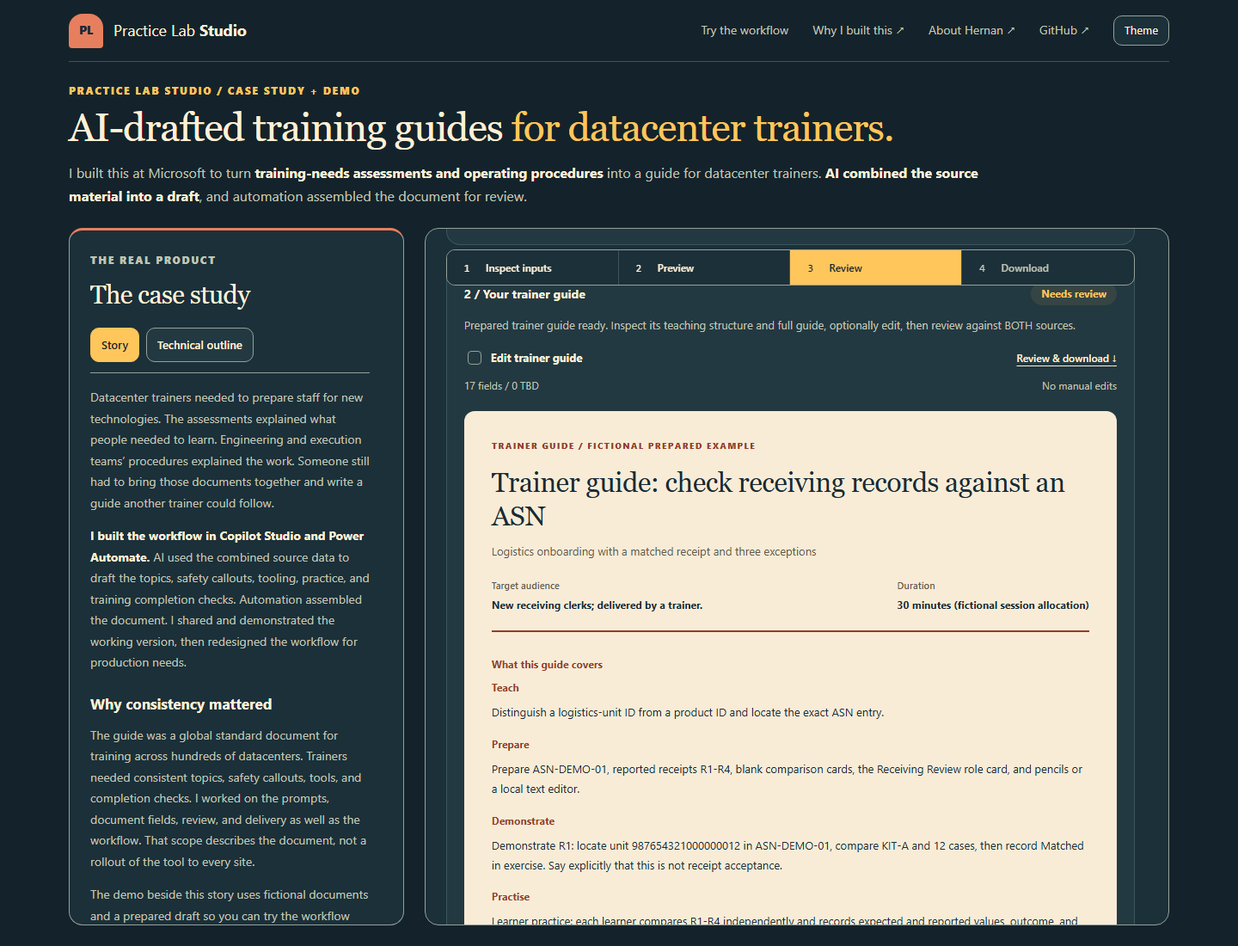
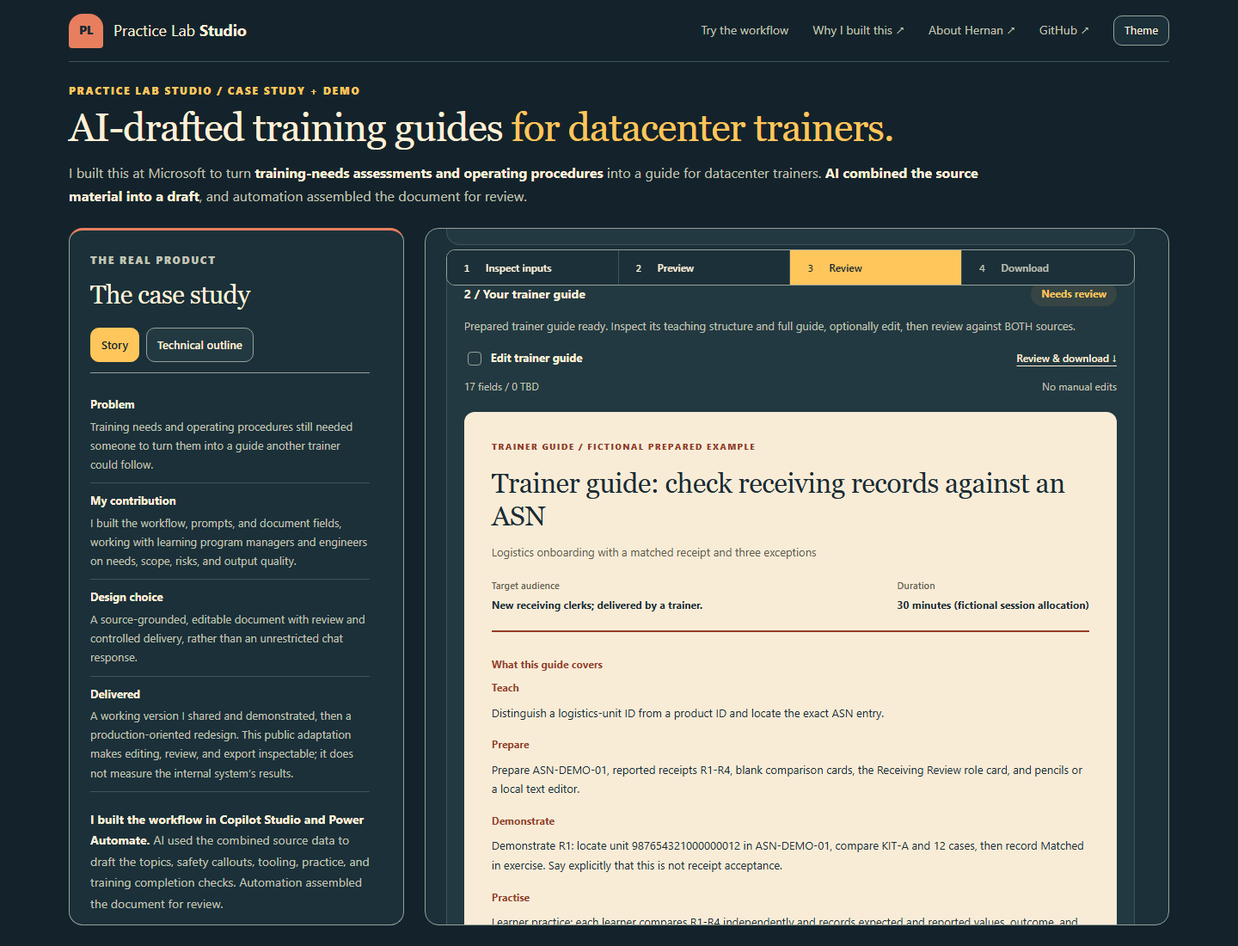
Balance portfolio product and program stories

diff --git a/index.html b/index.html
@@ -11,20 +11,20 @@
   </script>
   <meta name="viewport" content="width=device-width, initial-scale=1">
   <meta name="author" content="Hernan Acosta">
-  <meta name="description" content="Meet Hernan Acosta: a hands-on builder at Microsoft connecting AI workflows, global technical learning, and mentorship. Explore his work, story, and Practice Lab Studio.">
+  <meta name="description" content="Meet Hernan Acosta: product development, technical program delivery, and hands-on building across Microsoft, PayPal, and Amazon. Explore selected work and an interactive trainer-guide case study.">
   <meta name="referrer" content="no-referrer">
   <meta http-equiv="Content-Security-Policy" content="default-src 'none'; script-src 'unsafe-inline'; style-src 'unsafe-inline'; img-src data: blob:; connect-src 'none'; font-src 'none'; object-src 'none'; base-uri 'none'; form-action 'none'">
   <meta property="og:type" content="website">
-  <meta property="og:title" content="Hi! I'm Hernan. | AI tools, global teams &amp; a little curiosity">
-  <meta property="og:description" content="I build AI tools and help people do their next big thing. Come meet the person behind the projects, explore Practice Lab Studio, and say hello.">
+  <meta property="og:title" content="Hi! I'm Hernan. | Tools and programs people can use">
+  <meta property="og:description" content="Internal tools, AI-assisted authoring, and reusable training. Explore the problems, choices, and delivery behind my work.">
   <meta property="og:url" content="https://hernanacostaa.github.io/practice-lab-studio/">
   <meta property="og:image" content="https://hernanacostaa.github.io/practice-lab-studio/social-preview.png">
   <meta property="og:image:width" content="1200">
   <meta property="og:image:height" content="630">
-  <meta property="og:image:alt" content="Hernan Acosta: AI workflows, global learning, and mentorship.">
+  <meta property="og:image:alt" content="Hernan Acosta: product development, technical program delivery, and hands-on building.">
   <meta name="twitter:card" content="summary_large_image">
   <link rel="canonical" href="https://hernanacostaa.github.io/practice-lab-studio/">
-  <title>Hernan Acosta | Product Building, AI &amp; Global Learning</title>
+  <title>Hernan Acosta | Product Development &amp; Technical Program Delivery</title>
   <style>/* INLINE_STYLES */</style>
   <script type="application/ld+json">
     {
@@ -48,7 +48,7 @@
       <a class="brand" href="#top" aria-label="Hernan Acosta, back to top"><span class="monogram" aria-hidden="true">HA</span>Hernan Acosta</a>
       <div class="header-actions">
         <nav class="main-nav" aria-label="Main navigation">
-          <a href="#work">Spotlight Product</a>
+          <a href="#work">Explore my work</a>
           <a href="#about">Meet Hernan</a>
           <a href="#community">Beyond the desk</a>
           <a class="nav-contact" href="#contact">Say hello <span aria-hidden="true">&#8599;</span></a>
@@ -67,11 +67,12 @@
         <div>
           <p class="hello">Hi! Nice to meet you.</p>
           <h1 id="intro-title">I&rsquo;m <em>Hernan!</em> <span class="hello-smile" aria-label="big smile">:D</span></h1>
-          <p class="hero-hook">I build AI tools.<br>And help people do their next big thing.</p>
-          <p class="intro-copy">At Microsoft, I turn &ldquo;there has to be a better way&rdquo; into working tools, help global teams tackle new technology, and share what I learn. A good problem and good people? Count me in.</p>
+          <p class="focus-line">Product development &middot; Technical program delivery</p>
+          <p class="hero-hook">I turn complex workflows into tools and programs people can use.</p>
+          <p class="intro-copy">My work spans AI-assisted content development and global learning at Microsoft, merchant integrations at PayPal, and an internal tool I built and rolled out at Amazon. I work with users and technical partners to find the friction, make practical choices, and improve how work gets done.</p>
           <div class="intro-actions">
-            <a class="button primary" href="#work">Spotlight Product <span aria-hidden="true">&#8599;</span></a>
-            <a class="text-link arrow-link" href="#about"><span>The human behind the projects</span><span aria-hidden="true">&#8594;</span></a>
+            <a class="button primary" href="#work">Explore my work <span aria-hidden="true">&#8599;</span></a>
+            <a class="text-link arrow-link" href="#about"><span>Meet Hernan</span><span aria-hidden="true">&#8594;</span></a>
           </div>
         </div>
         <figure class="portrait">
@@ -101,15 +102,75 @@
 
       <section class="section" id="work" aria-labelledby="work-title">
         <div class="section-head">
-          <div><p class="eyebrow">Spotlight Product</p><h2 id="work-title">Meet Practice Lab Studio.</h2></div>
+          <div><p class="eyebrow">Selected work</p><h2 id="work-title">Build it. Get it into people&rsquo;s hands.</h2></div>
+          <p>Three kinds of work: a tool shaped by frontline feedback, a better authoring workflow, and training other teams could deliver.</p>
+        </div>
+        <section class="delivery-scope" aria-labelledby="delivery-scope-title">
+          <h3 id="delivery-scope-title">Selected results and delivery scope</h3>
+          <ul>
+            <li><strong>From pilot to multi-site rollout</strong><span>Amazon internal ticketing tool; frontline feedback informed major versions.</span></li>
+            <li><strong>From source documents to an editable guide</strong><span>Microsoft AI-assisted authoring; working version built, shared, and demonstrated.</span></li>
+            <li><strong>Delivery other trainers could carry forward</strong><span>Microsoft reusable materials and train-the-trainer programs for regional delivery.</span></li>
+          </ul>
+        </section>
+        <div class="work-grid selected-cases">
+          <article class="work-card" id="amazon" aria-labelledby="amazon-title">
+            <span class="small-label">Amazon / Internal tool &amp; rollout</span>
+            <h3 id="amazon-title">Less friction at ticket submission.</h3>
+            <p>I built an internal ticketing tool and expanded it from a pilot to multiple buildings. Frontline feedback informed three major versions, so the work wasn&rsquo;t finished at the first release.</p>
+            <details>
+              <summary>Read the tool and rollout story</summary>
+              <div class="work-detail">
+                <p><strong>The problem.</strong> Ticket submission was more time-consuming than it needed to be. I focused on that everyday workflow rather than creating a separate destination for its own sake.</p>
+                <p><strong>My contribution.</strong> I personally built the tool, rolled it out across sites, and used frontline feedback to inform major revisions.</p>
+                <p><strong>The choice.</strong> Start with a pilot, then keep revising as the tool reached more buildings. The supported account is feedback-led iteration; it doesn&rsquo;t establish a particular feature change or experiment.</p>
+                <p><strong>Delivered.</strong> A working internal tool and a multi-site rollout. This account describes historical use, not current usage or a claim of financial savings.</p>
+                <p><strong>Technical detail.</strong> JavaScript and HTML/CSS, hosted with Amazon S3 and CloudFront. No internal interface or source code is reproduced here.</p>
+              </div>
+            </details>
+          </article>
+          <article class="work-card" id="ai-authoring" aria-labelledby="ai-authoring-title">
+            <span class="small-label">Microsoft / AI-assisted authoring</span>
+            <h3 id="ai-authoring-title">A draft a trainer could actually use.</h3>
+            <p>Learning requirements and operating procedures still needed to become a trainer guide. I built the AI-assisted workflow, then worked on the structure, review, and editable document handoff.</p>
+            <details>
+              <summary>Read the authoring story</summary>
+              <div class="work-detail">
+                <p><strong>The problem.</strong> Having the source material wasn&rsquo;t the same as having a guide another trainer could follow.</p>
+                <p><strong>My contribution.</strong> I built the Copilot Studio and Power Automate workflow, designed prompts and document fields, and partnered with learning program managers and engineers on needs, scope, risks, and output quality.</p>
+                <p><strong>The choice.</strong> Keep the draft grounded in its sources, structured, and editable rather than treating a chat response as the finished document.</p>
+                <p><strong>Delivered.</strong> A working version I shared and demonstrated, followed by a production-oriented redesign. The public demo makes editing, review, and export inspectable; it isn&rsquo;t evidence of the original implementation&rsquo;s exact controls or measured results.</p>
+                <a href="lab.html" data-site-link>Open the concise case study + demo <span aria-hidden="true">&#8594;</span></a>
+                <a href="case-study.html#decisions" data-site-link>Explore the product decisions <span aria-hidden="true">&#8594;</span></a>
+              </div>
+            </details>
+          </article>
+          <article class="work-card" id="training-delivery" aria-labelledby="training-delivery-title">
+            <span class="small-label">Microsoft / Global curriculum leadership</span>
+            <h3 id="training-delivery-title">Training that didn&rsquo;t need me in every room.</h3>
+            <p>I coordinated training across sites and prepared secondary trainers with reusable materials and train-the-trainer programs. Local delivery depended on more than a good slide deck.</p>
+            <details>
+              <summary>Read the program delivery story</summary>
+              <div class="work-detail">
+                <p><strong>The problem.</strong> New technology brought learning needs across regions, with equipment, scheduling, and operational constraints to work around.</p>
+                <p><strong>My contribution.</strong> I coordinated delivery, worked alongside engineers and program managers, and created hands-on guides and train-the-trainer materials to support regional trainers.</p>
+                <p><strong>The delivery approach.</strong> Reusable guidance and secondary trainers gave other teams a way to carry the training forward locally. That describes the program design, not a measured improvement in staff readiness.</p>
+                <p><strong>Scope and limits.</strong> Multi-site training and trainer preparation are delivery scope. They don&rsquo;t establish faster onboarding, productivity gains, or financial impact.</p>
+                <p><strong>Mobility and new technology.</strong> A global rapid-response stretch assignment alongside my formal training role also brought field experience and operational constraints into the work.</p>
+              </div>
+            </details>
+          </article>
+        </div>
+        <div class="section-head project-head">
+          <div><p class="eyebrow">Make the authoring workflow tangible</p><h2>Meet Practice Lab Studio.</h2></div>
         </div>
         <article class="feature" aria-labelledby="project-title">
           <div class="feature-main">
             <div class="feature-copy">
-              <div class="feature-kicker"><span>My &ldquo;what if?&rdquo; project</span><span>AI-assisted authoring</span></div>
+              <div class="feature-kicker"><span>Microsoft project / public adaptation</span><span>AI-assisted authoring</span></div>
               <h3 id="project-title">Two inputs.<br>One trainer guide.</h3>
               <p class="feature-description">I built a tool that uses AI to turn training-needs assessments and operating procedures into a guide for datacenter trainers.</p>
-              <p class="feature-role">The result was a draft covering the topics, safety callouts, tools, practice, and completion checks. Automation assembled the document for an author to review and edit.</p>
+              <p class="feature-role">I focused on a usable draft and a reliable handoff: topics, safety callouts, tools, practice, and completion checks in an editable document. The story explains the work; the prepared public examples let you inspect the output.</p>
               <div class="feature-actions">
                 <a class="button primary" href="lab.html" data-site-link>See the case study + demo <span aria-hidden="true">&#8594;</span></a>
                 <a class="text-link arrow-link" href="lab.html#demo" data-site-link><span>Try the demo</span><span aria-hidden="true">&#8599;</span></a>
@@ -127,49 +188,18 @@
 
       <section class="section work-section" id="microsoft" aria-labelledby="microsoft-title">
         <div class="section-head">
-          <div><p class="eyebrow">More from my Microsoft chapter</p><h2 id="microsoft-title">Not all my work comes<br>with a download button.</h2></div>
-          <p>Sometimes I&rsquo;m building an agent. Sometimes I&rsquo;m helping another team teach the tricky stuff. Here are a few of those stories.</p>
+          <div><p class="eyebrow">Customer understanding &amp; field influence</p><h2 id="microsoft-title">The useful part starts with listening.</h2></div>
         </div>
-        <div class="work-grid">
+        <div class="work-grid supporting-cases">
           <article class="work-card">
-            <span class="small-label">Global curriculum leadership</span>
-            <h3>Great training shouldn&rsquo;t need me in every room.</h3>
-            <p>As a lead in global curriculum work, I turn hands-on engineering knowledge into guides and train-the-trainer programs. The best handoff is another team feeling ready to teach it themselves.</p>
-            <details>
-              <summary>Here&rsquo;s what I actually did</summary>
-              <div class="work-detail">
-                <p><strong>The challenge.</strong> Knowing how new technology works is different from helping another team learn, practice, and teach it.</p>
-                <p><strong>My contribution.</strong> I worked alongside engineers and program managers, authored hands-on guides, designed one- and two-week learning programs, and helped trainers from different regions prepare to deliver locally. Field questions fed back into the guidance.</p>
-                <p><strong>The lesson.</strong> A scalable program needs more than good content. It needs clear practice, a way to check readiness, and someone equipped to own the next delivery.</p>
-              </div>
-            </details>
+            <span class="small-label">PayPal / Merchant integrations</span>
+            <h3>Translate the need, not just the error.</h3>
+            <p>I helped small and enterprise merchants navigate checkout integrations, translating business needs and technical constraints into implementation guidance with engineering and product partners. I also contributed customer-needs analysis and quality assurance to an internal AI support agent.</p>
           </article>
           <article class="work-card">
-            <span class="small-label">Mobility &amp; new-technology readiness</span>
-            <h3>New tech. Real people. Let&rsquo;s get hands-on.</h3>
-            <p>My mobility-team work brings technical learning closer to new-technology readiness. It&rsquo;s a good reminder that a plan has to work around actual equipment, actual schedules, and actual people.</p>
-            <details>
-              <summary>Here&rsquo;s what I actually did</summary>
-              <div class="work-detail">
-                <p><strong>The challenge.</strong> A training plan has to work around real equipment, people, and operational constraints&mdash;not just look complete on paper.</p>
-                <p><strong>My contribution.</strong> Alongside my training role, I took on a global rapid-response stretch assignment for new technology. I bring field experience, technical instruction, and reusable learning materials to that work.</p>
-                <p><strong>The lesson.</strong> Stay close to the team doing the job. The gap between a documented process and the experience of using it is often where the next improvement begins.</p>
-              </div>
-            </details>
-          </article>
-          <article class="work-card">
-            <span class="small-label">Self-initiated AI product building</span>
-            <h3>&ldquo;What if we built a tool for that?&rdquo;</h3>
-            <p>I started building AI content tools alongside my regular job, then put them in front of other teams. Making a demo work was exciting. Making the output worth using was the more interesting challenge.</p>
-            <details>
-              <summary>Here&rsquo;s what I actually did</summary>
-              <div class="work-detail">
-                <p><strong>The challenge.</strong> Learning teams repeatedly turn technical source material into exercises, readiness assessments, and other training content.</p>
-                <p><strong>My contribution.</strong> I built the working agent workflow, designed prompts and input/output contracts, evaluated outputs against learning needs, and iterated on review and document delivery. Practice Lab Studio makes one part of that thinking publicly inspectable.</p>
-                <p><strong>The lesson.</strong> A compelling demo is a beginning. Source quality, failure behavior, human review, and the handoff into someone&rsquo;s workflow matter just as much.</p>
-                <a href="case-study.html#decisions" data-site-link>Explore the product decisions <span aria-hidden="true">&#8594;</span></a>
-              </div>
-            </details>
+            <span class="small-label">Microsoft / Cross-region community</span>
+            <h3>Turn field questions into better guidance.</h3>
+            <p>I built a cross-region learning community and helped turn field feedback into reusable guidance, contributing to curriculum-document updates and driving updates to standard operating procedures. Those changes were shared work, not mine alone.</p>
           </article>
         </div>
         <p class="work-note">Public summaries of my contributions. Internal materials, deployment details, and private business results are intentionally not shared here.</p>
@@ -195,12 +225,12 @@
               </div></li>
               <li><div>
                 <div class="career-top"><h3>PayPal</h3><span>Previously</span></div>
-                <p class="career-role">Merchant-facing technical support</p>
+                <p class="career-role">Technical Support Engineer</p>
                 <p>Helping merchants navigate checkout integrations and translating technical constraints into practical implementation guidance.</p>
               </div></li>
               <li><div>
                 <div class="career-top"><h3>Amazon</h3><span>Earlier</span></div>
-                <p class="career-role">Operational IT &amp; workflow building</p>
+                <p class="career-role">IT Support Technician II</p>
                 <p>Building an internal ticketing tool, rolling it out across sites, and iterating through major versions using frontline feedback.</p>
               </div></li>
             </ol>
@@ -300,9 +330,9 @@
 
   <article class="print-profile" aria-label="Printable selected work and experience">
     <h1>Hernan Acosta</h1>
-    <p class="print-position">Product building &middot; AI workflows &middot; Global learning</p>
+    <p class="print-position">Product development &middot; Technical program delivery</p>
     <p class="print-links"><a href="https://www.linkedin.com/in/hernanacostajr/">linkedin.com/in/hernanacostajr</a><br><a href="https://hernanacostaa.github.io/practice-lab-studio/">hernanacostaa.github.io/practice-lab-studio</a></p>
-    <p>I build AI-assisted tools and learning experiences that help people do their work. My background combines hands-on technical work, customer-facing support, global training, and self-initiated product building.</p>
+    <p>I turn complex workflows into tools and programs people can use. My background combines hands-on building, merchant integrations, global training, and self-initiated AI content development.</p>
     <section>
       <h2>Microsoft &mdash; IT Technical Trainer</h2>
       <ul>
@@ -319,10 +349,10 @@
     </section>
     <section>
       <h2>Earlier experience</h2>
-      <h3>PayPal &mdash; Merchant-facing technical support</h3>
-      <p>Helped merchants navigate checkout integrations, translating customer needs and technical constraints into practical implementation guidance.</p>
-      <h3>Amazon &mdash; Operational IT &amp; workflow building</h3>
-      <p>Built an internal ticketing tool, rolled it out across sites, and iterated through major versions using frontline feedback.</p>
+      <h3>PayPal &mdash; Technical Support Engineer</h3>
+      <p>Helped merchants navigate checkout integrations with engineering and product partners; contributed customer-needs analysis and QA to an internal AI support agent.</p>
+      <h3>Amazon &mdash; IT Support Technician II</h3>
+      <p>Personally built an internal ticketing tool with JavaScript, HTML/CSS, S3, and CloudFront. Expanded from a pilot to multiple sites; frontline feedback informed three major versions.</p>
     </section>
     <section>
       <h2>Community &amp; approach</h2>

diff --git a/lab.html b/lab.html
@@ -45,13 +45,20 @@
         <button id="technical-tab" class="case-tab" type="button" role="tab" aria-selected="false" aria-controls="technical-outline" tabindex="-1">Technical outline</button>
       </div>
       <section id="case-story" data-case-panel>
-      <p>Datacenter trainers needed to prepare staff for new technologies. The assessments explained what people needed to learn. Engineering and execution teams&rsquo; procedures explained the work. Someone still had to bring those documents together and write a guide another trainer could follow.</p>
-      <p><strong>I built the workflow in Copilot Studio and Power Automate.</strong> AI used the combined source data to draft the topics, safety callouts, tooling, practice, and training completion checks. Automation assembled the document. I shared and demonstrated the working version, then redesigned the workflow for production needs.</p>
+      <dl class="case-evidence" aria-label="Project evidence summary">
+        <div><dt>Problem</dt><dd>Training needs and operating procedures still needed someone to turn them into a guide another trainer could follow.</dd></div>
+        <div><dt>My contribution</dt><dd>I built the workflow, prompts, and document fields, working with learning program managers and engineers on needs, scope, risks, and output quality.</dd></div>
+        <div><dt>Design choice</dt><dd>A source-grounded, editable document with review and controlled delivery, rather than an unrestricted chat response.</dd></div>
+        <div><dt>Delivered</dt><dd>A working version I shared and demonstrated, then a production-oriented redesign. This public adaptation makes editing, review, and export inspectable; it does not measure the internal system&rsquo;s results.</dd></div>
+      </dl>
+      <p><strong>I built the workflow in Copilot Studio and Power Automate.</strong> AI used the combined source data to draft the topics, safety callouts, tooling, practice, and training completion checks. Automation assembled the document for review.</p>
       <section id="design" aria-labelledby="design-title">
         <h3 id="design-title">Why consistency mattered</h3>
-        <p>The guide was a global standard document for training across hundreds of datacenters. Trainers needed consistent topics, safety callouts, tools, and completion checks. I worked on the prompts, document fields, review, and delivery as well as the workflow. That scope describes the document, not a rollout of the tool to every site.</p>
-        <p>The demo beside this story uses fictional documents and a prepared draft so you can try the workflow without internal access. You can edit the guide, check it against both inputs, and download Word. It doesn&rsquo;t run live AI or connect to a datacenter.</p>
+        <p>The guide was a global standard document for training across hundreds of datacenters. A shared structure helped keep topics, safety callouts, tools, and completion checks together. That scope describes the document, not a rollout of the tool to every site or measured learning outcomes.</p>
       </section>
+      <details class="prepared-output"><summary>See a prepared output without running the demo</summary>
+        <figure><img src="assets/portfolio/lab-preview.webp" width="1120" height="761" alt="Prepared fictional logistics trainer guide showing audience, tools, trainer demonstration, and learner practice" loading="lazy" decoding="async"><figcaption>Prepared public output, not an internal screenshot or a reviewed authoring session. The interactive demo still requires your review before export.</figcaption></figure>
+      </details>
       <a class="text-link" href="case-study.html" data-site-link target="_blank" rel="noopener noreferrer">Project details and optional planning model <span aria-hidden="true">&#8599;</span></a>
       </section>
       <section id="technical-outline" data-case-panel>
@@ -96,7 +103,7 @@
       <div class="scenario-picker"><label for="sample-choice">Choose an example</label><select id="sample-choice" aria-describedby="scenario-context" disabled><option value="logistics">Logistics</option><option value="service-desk">IT service desk</option></select></div>
       <p id="scenario-context" class="scenario-context">Two real industry tasks, with fictional documents and records. They illustrate the workflow from my datacenter project, not projects I deployed in these industries.</p>
       <p class="demo-intro"><strong>Try it as the training author.</strong> Read the two fictional documents, create the prepared guide, and make any changes before reviewing and downloading Word.</p>
-      <p class="demo-disclosure"><strong>About this demo.</strong> No live AI is running here. Each source pair and guide is a prepared example you can edit and download. Nothing is uploaded or stored in your browser. Use fictional records only&mdash;no goods handling, live systems, account access, or real messages.</p>
+      <p class="demo-disclosure"><strong>About this demo.</strong> This public adaptation uses fictional documents and prepared drafts. Editing, review, and local exports are functional. No live AI is running here, and it doesn&rsquo;t connect to internal systems. Nothing is uploaded or stored in your browser. Use fictional records only&mdash;no goods handling, live systems, account access, or real messages.</p>
       <noscript><p class="alert">Enable JavaScript to use the demo. The GitHub repository contains readable sample sources, outputs, and setup documentation.</p></noscript>
       <div class="workflow-progress" aria-label="Workflow progress">
         <span id="progress-source" class="active" aria-current="step">1 <b>Inspect inputs</b></span>

diff --git a/case-study.html b/case-study.html
@@ -42,6 +42,7 @@
         <dl>
           <div><dt>System type</dt><dd>AI-assisted document generation and workflow automation, built with Copilot Studio and Power Automate.</dd></div>
           <div><dt>My role</dt><dd>Problem definition, workflow and prompt design, hands-on building, presentations, demos, and production-oriented redesign.</dd></div>
+          <div><dt>Partners</dt><dd>Learning program managers and engineers contributed needs, scope, risk, and output-quality input.</dd></div>
           <div><dt>Primary users</dt><dd>Training authors and reviewers; datacenter trainers follow the resulting guide.</dd></div>
           <div><dt>Product goal</dt><dd>Reduce repeated drafting and formatting while preserving source accuracy and human review.</dd></div>
           <div><dt>Project progression</dt><dd>Identified the problem &rarr; built a working version &rarr; shared and demoed it &rarr; redesigned for production needs.</dd></div>
@@ -120,19 +121,19 @@
         </section>
         <section id="metrics" class="story-section" aria-labelledby="metrics-title">
           <p class="eyebrow">04 / Optional planning deep dive, not project results</p>
-          <h2 id="metrics-title">What I would measure in a pilot</h2>
-          <div class="north-star"><span class="tiny-label">Proposed north-star metric</span><h3>Reviewer-accepted training worksheets per active author-week</h3><p>Count a worksheet only after content review and a usable export. An active author has started at least one worksheet that week. Count each worksheet once, not each revision.</p></div>
+          <h2 id="metrics-title">How I would evaluate broader use</h2>
+          <div class="north-star"><span class="tiny-label">Proposed north-star metric</span><h3>Reviewer-accepted trainer guides per active author-week</h3><p>Count a guide only after content review and a usable export. An active author has started at least one guide that week. Count each guide once, not each revision.</p></div>
           <p class="metric-disclosure"><strong>Proposed pilot criteria&mdash;not measured results.</strong> The example thresholds below are planning choices, not historical performance or commitments. They would be agreed with pilot participants after establishing a comparable baseline.</p>
           <div class="table-scroll" tabindex="0" role="region" aria-label="Product success metrics and proposed targets">
             <table class="story-table metric-table">
               <thead><tr><th scope="col">Measure</th><th scope="col">Definition</th><th scope="col">Example decision rule</th></tr></thead>
               <tbody>
-                <tr><th scope="row">Time to accepted worksheet</th><td>Median active authoring + review + correction time on matched tasks. Track elapsed lead time separately.</td><td>Target at least <strong>30% less active time</strong> than the manual baseline, without worse quality.</td></tr>
+                <tr><th scope="row">Time to accepted trainer guide</th><td>Median active authoring + review + correction time on matched tasks. Track elapsed lead time separately.</td><td>Target at least <strong>30% less active time</strong> than the manual baseline, without worse quality.</td></tr>
                 <tr><th scope="row">First-pass acceptance</th><td>First drafts accepted without substantive corrections / all first drafts reviewed.</td><td>Proposed target <strong>80% or higher</strong>; inspect rejection reasons by field.</td></tr>
                 <tr><th scope="row">Unsupported-content rate</th><td>Reviewed drafts with at least one unsupported material claim / all drafts audited.</td><td><strong>Any critical unsupported instruction pauses the pilot.</strong> Define severity before evaluation.</td></tr>
                 <tr><th scope="row">Usable export reliability</th><td>Attempts producing a readable, content-faithful artifact within the agreed time / all generation attempts, including failures.</td><td>Proposed target <strong>95% or higher</strong>; a file existing alone is not success.</td></tr>
-                <tr><th scope="row">Repeat use</th><td>Activated authors producing an accepted worksheet in the following week / activated authors observed for two full weeks. Activation means a first accepted worksheet.</td><td>Measure first; segment by task frequency rather than invent an adoption claim.</td></tr>
-                <tr><th scope="row">Cost per accepted worksheet</th><td>Authoring and review labor, failed attempts, platform usage, support, and allocated setup cost / accepted worksheets.</td><td>Improve against the manual baseline at the same quality bar; do not count labor capacity as cash savings.</td></tr>
+                <tr><th scope="row">Repeat use</th><td>Activated authors producing an accepted guide in the following week / activated authors observed for two full weeks. Activation means a first accepted guide.</td><td>Measure first; segment by task frequency rather than invent an adoption claim.</td></tr>
+                <tr><th scope="row">Cost per accepted trainer guide</th><td>Authoring and review labor, failed attempts, platform usage, support, and allocated setup cost / accepted guides.</td><td>Improve against the manual baseline at the same quality bar; do not count labor capacity as cash savings.</td></tr>
               </tbody>
             </table>
           </div>

diff --git a/src/portfolio.css b/src/portfolio.css
@@ -108,6 +108,8 @@ html[data-theme="dark"] .theme-moon { display: none; }
 .intro h1 em { color: var(--cp-accent); font-style: italic; }
 .hello-smile { display: inline-block; font: 600 .48em/1.1 Consolas, "Courier New", Courier, monospace; letter-spacing: -4px; color: var(--cp-accent); transform: rotate(-10deg); vertical-align: 12%; }
 .hero-hook { margin-top: 24px; max-width: 580px; font-size: clamp(23px, 2.35vw, 31px); font-weight: 550; line-height: 1.4; letter-spacing: -.6px; }
+.focus-line { margin-top: 24px; font-size: 13px; color: var(--cp-accent); font-weight: 650; }
+.focus-line + .hero-hook { margin-top: 12px; }
 .intro-copy { max-width: 560px; font-size: 16px; line-height: 1.85; color: var(--cp-secondary); margin-top: 24px; }
 .intro-actions { display: flex; align-items: center; flex-wrap: wrap; gap: 28px; margin-top: 32px; }
 .portrait { width: 100%; max-width: 376px; justify-self: end; padding-right: 16px; }
@@ -158,6 +160,18 @@ h2 { font-size: clamp(34px, 3.8vw, 50px); letter-spacing: -1.6px; font-weight: 4
 .feature-footnote { margin-top: 16px; font-size: 12px; color: var(--cp-secondary); line-height: 1.7; max-width: 980px; }
 .work-section { padding-top: 0; }
 .work-grid { display: grid; grid-template-columns: repeat(3, 1fr); gap: 24px; align-items: start; }
+.delivery-scope { margin-bottom: 32px; border-block: 1px solid var(--cp-border); padding-block: 24px; }
+.delivery-scope h3 { font-size: 16px; margin-bottom: 16px; }
+.delivery-scope ul { display: grid; grid-template-columns: repeat(3, minmax(0, 1fr)); gap: 24px; list-style: none; padding: 0; margin: 0; }
+.delivery-scope strong, .delivery-scope span { display: block; font-size: 14px; line-height: 1.65; }
+.delivery-scope span { color: var(--cp-secondary); margin-top: 8px; font-size: 13px; }
+.selected-cases { align-items: stretch; }
+.project-head { margin-top: 48px; }
+.supporting-cases { grid-template-columns: repeat(2, minmax(0, 1fr)); }
+.supporting-cases .work-card { padding-bottom: 28px; }
+@media (max-width: 720px) {
+  .delivery-scope ul, .supporting-cases { grid-template-columns: minmax(0, 1fr); }
+}
 .work-card { border: 1px solid var(--cp-border); border-top: 4px solid var(--cp-clay); padding: 28px 24px 8px; border-radius: 4px; background: var(--cp-bg-elevated); }
 .work-card:nth-child(2) { border-top-color: var(--cp-sun); }
 .work-card:nth-child(3) { border-top-color: var(--cp-blue); }

diff --git a/src/lab.css b/src/lab.css
@@ -19,6 +19,15 @@
 .case-pane .eyebrow { margin-bottom: 12px; }
 .case-pane h3 { font-size: 17px; line-height: 1.4; margin: 24px 0 12px; }
 .case-pane .text-link { display: inline-block; font-size: 13px; }
+.case-evidence { margin: 0 0 20px; }
+.case-evidence > div { padding: 10px 0; border-bottom: 1px solid var(--cp-border); }
+.case-evidence dt { font-size: 13px; font-weight: 700; color: var(--cp-text); }
+.case-evidence dd { margin: 4px 0 0; font-size: 13px; line-height: 1.7; color: var(--cp-text-muted); }
+.prepared-output { margin: 20px 0; }
+.prepared-output summary { font-size: 13px; line-height: 1.6; cursor: pointer; font-weight: 650; }
+.prepared-output figure { margin: 12px 0 0; }
+.prepared-output img { display: block; width: 100%; height: auto; border: 1px solid var(--cp-border); border-radius: 8px; }
+.prepared-output figcaption { font-size: 12px; line-height: 1.7; color: var(--cp-text-muted); margin-top: 8px; }
 .case-tabs { display: flex; gap: 8px; position: sticky; top: 0; z-index: 1; background: var(--cp-bg-elevated); border-bottom: 1px solid var(--cp-border-strong); padding: 8px 0 12px; margin-bottom: 16px; }
 .case-tab { min-width: 0; padding: 10px 12px; border: 1px solid var(--cp-border-strong); border-radius: .625rem; background: var(--cp-surface); color: var(--cp-text); font: 600 13px/1.4 "Segoe UI", Aptos, Calibri, sans-serif; cursor: pointer; }
 .case-tab:hover { background: var(--cp-surface-soft); }

diff --git a/README.md b/README.md
@@ -8,11 +8,13 @@ The public site has three entry points: `index.html` is the personal portfolio, 
 
 The case-study pane has **Story** and **Technical outline** tabs. The outline connects two source-document nodes to five stages, each with a short explanation and an AI, automation, or human label. It explains the optional retrieval-augmented generation (RAG) path without claiming that these files prove retrieval in the original system. Architecture sources remain in the repository documentation rather than a disclosure in the pane. Changing tabs does not reset a draft or its review.
 
-The homepage includes a permanent headshot, selected Microsoft and ASU experience, selected projects, and LinkedIn contact. Its accessible photo carousel is manually controlled, with no autoplay. **Save a one-page profile** opens the browser's print dialog, including Save as PDF where available; the profile summarizes selected work, not a full resume.
+The homepage gives three kinds of work comparable prominence: Amazon's internal tool and rollout (`index.html#amazon`), Microsoft's AI-assisted authoring (`lab.html`), and reusable training delivery (`index.html#training-delivery`). Compact PayPal and cross-region community accounts support the cases. Its permanent portrait, career chronology, personal sections, and manually controlled photo carousel remain intact. **Save a one-page profile** opens the browser's print dialog, including Save as PDF where available; the profile summarizes selected work, not a full resume.
+
+The primary lab story includes a no-interaction evidence summary and an expandable, clearly labelled prepared-output screenshot. Neither opens an approved demo session or bypasses review. Historical figures requiring scope or publication clearance are omitted from this content draft; proposed pilot targets remain confined to the optional secondary planning page.
 
 ## Voice and visual direction
 
-The personal homepage is a friendly introduction, not a project abstract. A conversational greeting and **Spotlight Product** action lead into concrete work, with a more prominent current/previous-company strip. The decorative principle cards were removed in favor of the actual stories.
+The personal homepage is a friendly introduction, not a project abstract. A conversational greeting and **Explore my work** action lead into product development, technical program delivery, and hands-on building. Formal employment titles and the current/previous-company distinction remain separate from this positioning.
 
 The author-requested Mexican-architecture direction uses cobalt, terracotta, marigold, and warm plaster, with arched portraits and flat architectural color blocks. The [supplied reference](https://paintit.ai/styles/mexican-style-interior-design/img/step3.jpg) informed the palette; it is not copied into the site. This is an art direction, not a claim about the author's identity. All UI colors remain in `--cp-*` tokens, and fonts are local. The homepage defaults to dark even on a light-system preference; the theme button and `scoutTheme=light` remain explicit overrides.
 

diff --git a/docs/CASE_STUDY.md b/docs/CASE_STUDY.md
@@ -8,6 +8,8 @@ The project story's numeric pilot thresholds and calculator defaults are newly i
 
 **This case study is based on a real solution I created at Microsoft.** I identified a manual training-authoring problem, built a working version, shared it, presented and demoed the solution, and redesigned the workflow for production needs.
 
+I partnered with learning program managers and engineers on needs, scope, risks, and output quality. My contribution covered the workflow, prompts, fields, review, and document delivery. The primary story includes a compact evidence summary and prepared-output screenshot, so readers do not need to complete the demo to understand the work.
+
 Practice Lab Studio is the public adaptation of that work. Its examples, infrastructure placeholders, browser implementation, and published configuration blueprints are replacements, not original organizational assets. The project history is real; the public scenarios are fictional. This is my personal case study, not an official Microsoft product or endorsement.
 
 ## The problem
@@ -23,8 +25,8 @@ The design question was: **How can I turn learning needs and procedures into a c
 ## What I did
 
 1. **Identified the authoring gap.** Focused on the repeated work between having a reference document and having a training exercise.
-2. **Defined the output.** Made the worksheet's 17 fields a shared contract for drafting, revision, preview, and document generation.
-3. **Built a working version.** Iterated on AI-assisted drafting, field mapping, and document output so supplied source content could become an editable training worksheet.
+2. **Defined the output.** Made the trainer guide's 17 fields a shared contract for drafting, revision, preview, and document generation.
+3. **Built a working version.** Iterated on AI-assisted drafting, field mapping, and document output so supplied source content could become an editable trainer guide.
 4. **Shared, presented, and demoed it.** Put the working solution and its approach in front of others after creating the first working version.
 5. **Redesigned for production needs.** Focused on clearer responsibilities, consistent structure, source checks, review, failure handling, and document delivery.
 6. **Created the public adaptation.** Replaced internal content and infrastructure with original examples and a disconnected browser walkthrough.
